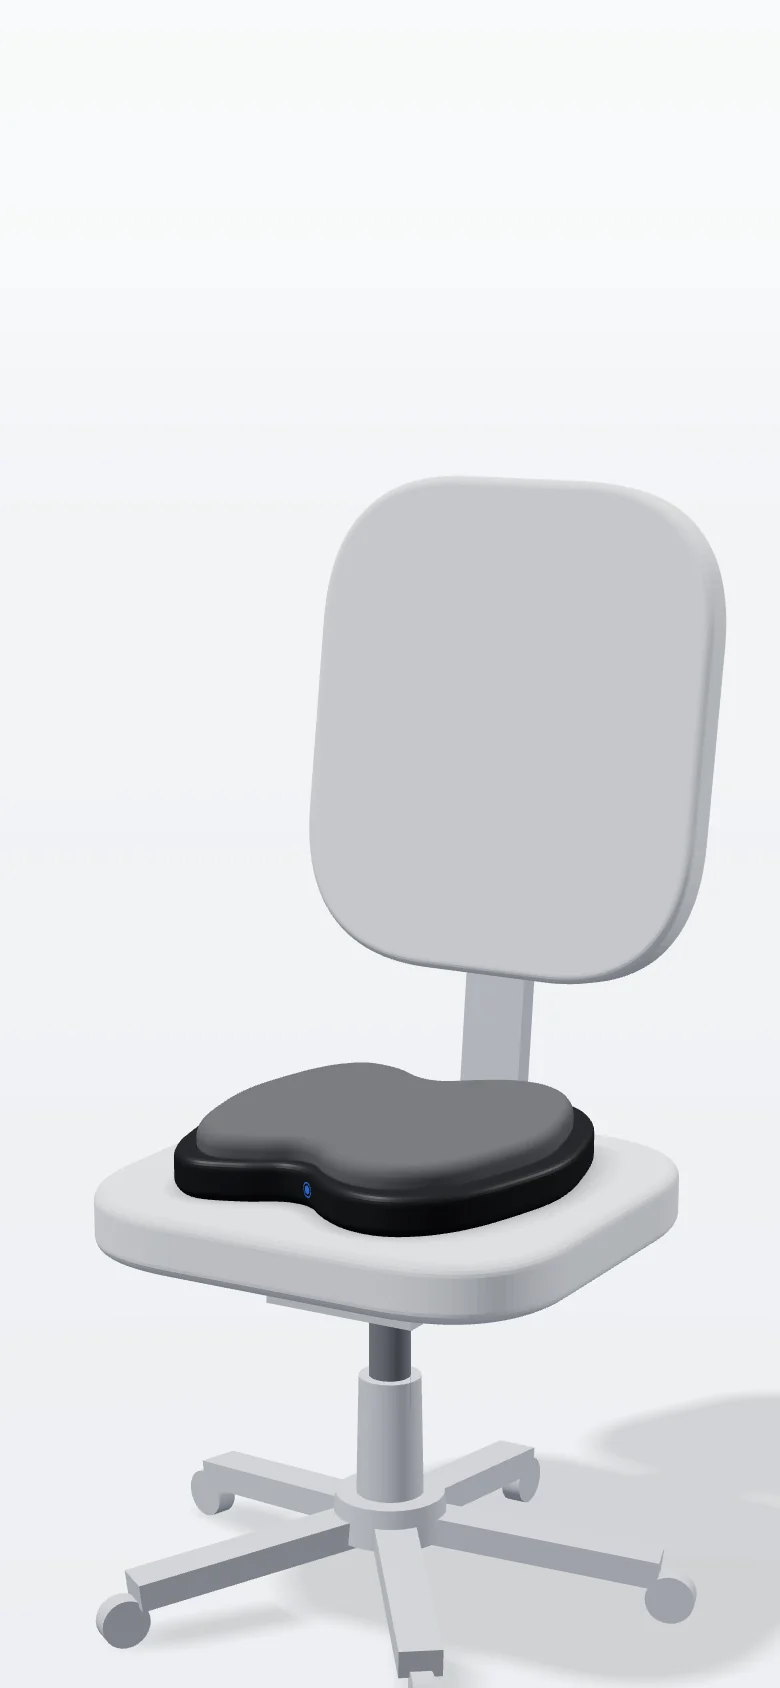
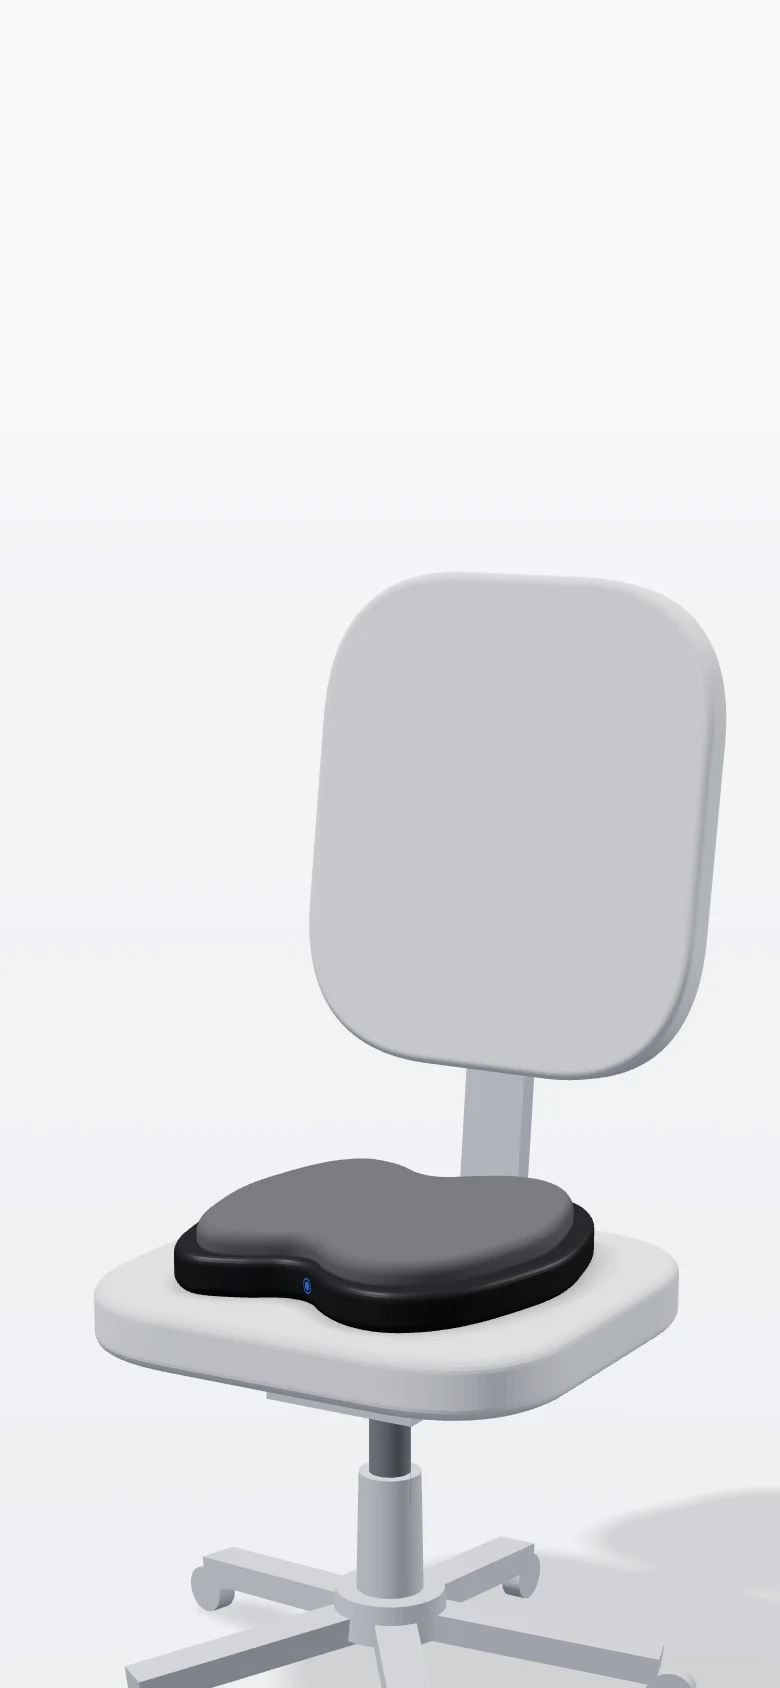
Statement in the hero, one item per section, slower scroll reveals, film restored

Changed region(s): [[0.1231, 0.2773, 1.0, 1.0]]

diff --git a/index.html b/index.html
@@ -167,24 +167,49 @@
                     <span class="pe-title-line pe-title-light">앉는 순간,</span>
                     <span class="pe-title-line pe-title-bold">자세가 깨어납니다.</span>
                 </h1>
+                <p class="pe-lede hero-statement"><span class="hs-line">대부분의 방석은 받쳐 줄 뿐입니다.</span> <span class="hs-line hs-strong">HURRY UP은 자세를 알려 줍니다.</span></p>
             </div>
 
             <div class="cine-hud">
-                <a href="#about" class="cine-skip" data-skip-intro>인트로 건너뛰기 <svg class="icon" aria-hidden="true"><use href="#i-arrow-down"/></svg></a>
+                <a href="#film" class="cine-skip" data-skip-intro>인트로 건너뛰기 <svg class="icon" aria-hidden="true"><use href="#i-arrow-down"/></svg></a>
             </div>
         </div>
     </section>
 
-    <!-- ============ 02. 스테이트먼트 + 핵심 특징 ============ -->
-    <section class="about" id="about" tabindex="-1">
-        <div class="container">
-            <h2 class="sr-only">HURRY UP이 하는 일</h2>
-            <!-- 굵기 대비 두 줄 (가는 1행 · 굵은 2행). 단어별 밝아짐은 script.js splitStatementWords가 줄마다 나눔 -->
-            <p class="statement" data-split-words>
-                <span class="st-line st-l">대부분의 방석은 받쳐 줄 뿐입니다.</span>
-                <span class="st-line st-b">HURRY UP은 자세를 알려 줍니다.</span>
-            </p>
 
+    <!-- ============ 02-B. 브랜드 필름 (15초 쇼릴) ============ -->
+    <section class="film" id="film" aria-labelledby="filmTitle" tabindex="-1">
+        <div class="container">
+            <div class="section-header" data-reveal>
+                <span class="eyebrow">Brand Film</span>
+                <h2 id="filmTitle">15초로 보는 HURRY UP.</h2>
+            </div>
+            <div class="film-frame" id="filmFrame" data-reveal>
+                <!-- JS 없이도 재생 가능: 기본 컨트롤 + 720p 소스. JS가 있으면 화면 크기에 맞는 소스·자동 재생으로 교체 -->
+                <video id="filmVideo" class="film-video" controls muted loop playsinline preload="none" poster="media/showreel-poster.jpg" width="1920" height="1080" aria-label="HURRY UP 브랜드 쇼릴, 15초">
+                    <source src="media/hurryup-showreel-720.mp4" type="video/mp4">
+                    <source src="media/hurryup-showreel-720.webm" type="video/webm">
+                </video>
+                <button type="button" class="film-start" id="filmStart" hidden aria-label="쇼릴 재생">
+                    <span><svg class="icon"><use href="#i-play"/></svg></span>
+                </button>
+                <div class="film-controls" id="filmControls" hidden>
+                    <button type="button" class="film-btn" id="filmPlay" aria-label="일시정지">
+                        <svg class="icon icon-pause"><use href="#i-pause"/></svg><svg class="icon icon-play"><use href="#i-play"/></svg>
+                    </button>
+                    <button type="button" class="film-btn wide" id="filmSound" aria-label="소리 켜기">
+                        <svg class="icon icon-muted"><use href="#i-volume-x"/></svg><svg class="icon icon-sound"><use href="#i-volume-2"/></svg><span>소리 켜기</span>
+                    </button>
+                    <div class="film-progress" aria-hidden="true"><i id="filmBar"></i></div>
+                    <button type="button" class="film-btn" id="filmFull" aria-label="전체 화면">
+                        <svg class="icon"><use href="#i-maximize"/></svg>
+                    </button>
+                </div>
+            </div>
+            <div class="film-meta" data-reveal>
+                <span>2.5D 모션 그래픽 · 시제품 렌더 기반 · 콘셉트 시각화와 예시 데이터 포함</span>
+                <a href="media/hurryup-showreel.mp4" download class="film-dl"><svg class="icon"><use href="#i-download"/></svg> MP4 다운로드 (1080p, 사운드)</a>
+            </div>
         </div>
     </section>
 
@@ -220,7 +245,7 @@
     <section class="technology" id="technology">
         <div class="container">
             <div class="section-header pe-head" data-reveal>
-                <h2><span class="l">감지하고, 판단하고,</span> <span class="b">알려 줍니다.</span></h2>
+                <h2><span class="l">바르게 앉으면 조용히,</span> <span class="b">기울면 짧게.</span></h2>
             </div>
 
             <div class="story">
@@ -463,7 +488,7 @@
                     <p class="proto-note" id="protoPriceNote">가격과 출시 일정은 아직 정해지지 않았습니다.</p>
                     <div class="proto-cta">
                         <a href="#contact" class="btn btn-pill btn-accent" data-inquiry="trial">시제품 체험 신청 <svg class="icon"><use href="#i-arrow-right"/></svg></a>
-                        <a href="#contact" class="btn btn-pill btn-outline" data-inquiry="partner">협력 문의</a>
+                        <a href="#contact" class="btn btn-pill btn-outline">협력 문의</a>
                     </div>
                 </div>
             </div>
@@ -484,60 +509,6 @@
                     </button>
                     <figcaption><span class="media-tag">3D 렌더</span>전체 뷰</figcaption>
                 </figure>
-                <figure class="g-item" data-reveal>
-                    <button type="button" class="g-media" data-lightbox="images/gallery/detail-power.webp" data-caption="전원 버튼과 측면 곡선 — 렌더 크롭" aria-label="전원 버튼 디테일 크게 보기">
-                        <img src="images/gallery/detail-power.webp" alt="전원 버튼과 측면 곡선 디테일" width="600" height="340" loading="lazy" decoding="async">
-                    </button>
-                    <figcaption><span class="media-tag">렌더 크롭</span>전원 버튼 · 측면</figcaption>
-                </figure>
-                <figure class="g-item" data-reveal>
-                    <button type="button" class="g-media" data-lightbox="images/gallery/detail-edge.webp" data-caption="테두리 곡면 — 렌더 크롭" aria-label="테두리 곡면 크게 보기">
-                        <img src="images/gallery/detail-edge.webp" alt="방석 테두리 곡면 디테일" width="700" height="770" loading="lazy" decoding="async">
-                    </button>
-                    <figcaption><span class="media-tag">렌더 크롭</span>테두리 곡면</figcaption>
-                </figure>
-                <figure class="g-item" data-reveal>
-                    <div class="g-media g-diagram" id="gallerySensorDiagram">
-                        <svg viewBox="0 0 460 380" aria-hidden="true"><use href="#cushionShape"/></svg>
-                    </div>
-                    <figcaption><span class="media-tag">다이어그램</span>센서 배열 (콘셉트)</figcaption>
-                </figure>
-                <!--
-                  ▼ 실사 슬롯 3개 (data-gallery-slot). HTML은 수정하지 마세요.
-                    사진이 준비되면: python tools/prep_photo.py <slot> <원본 사진>
-                    → 출력된 설정을 site-config.js → gallery.<slot> 에 붙여 넣으면
-                      자리 표시가 반응형 이미지(srcset · lazy · alt)로 자동 교체됩니다.
-                -->
-                <figure class="g-item" data-reveal data-gallery-slot="material">
-                    <div class="g-media g-placeholder ratio-4x3" role="img" aria-label="쿠션 소재 클로즈업 사진 자리, 실제 사진 준비 중">
-                        <span class="ph-frame" aria-hidden="true"></span>
-                        <svg class="icon" aria-hidden="true"><use href="#i-layers"/></svg>
-                        <strong>쿠션 소재 클로즈업</strong>
-                        <span>실제 시제품 사진 준비 중</span>
-                        <small>권장 4:3 · 1600×1200px 이상 · 매크로</small>
-                    </div>
-                    <figcaption><span class="media-tag muted">사진 준비 중</span>쿠션 소재</figcaption>
-                </figure>
-                <figure class="g-item" data-reveal data-gallery-slot="pcb">
-                    <div class="g-media g-placeholder ratio-4x3" role="img" aria-label="내부 PCB와 진동 모터 사진 자리, 실제 사진 준비 중">
-                        <span class="ph-frame" aria-hidden="true"></span>
-                        <svg class="icon" aria-hidden="true"><use href="#i-cpu"/></svg>
-                        <strong>내부 PCB · 진동 모터</strong>
-                        <span>실제 부품 사진 준비 중</span>
-                        <small>권장 4:3 · 1600×1200px 이상 · 탑뷰</small>
-                    </div>
-                    <figcaption><span class="media-tag muted">사진 준비 중</span>PCB · 진동 모터</figcaption>
-                </figure>
-                <figure class="g-item g-full" data-reveal data-gallery-slot="side">
-                    <div class="g-media g-placeholder ratio-3x1" role="img" aria-label="측면 프로필 사진 자리, 실제 사진 준비 중">
-                        <span class="ph-frame" aria-hidden="true"></span>
-                        <svg class="icon" aria-hidden="true"><use href="#i-image"/></svg>
-                        <strong>측면 프로필</strong>
-                        <span>실제 시제품 사진 준비 중 · 두께와 곡면 실루엣</span>
-                        <small>권장 3:1 · 2400×800px 이상 · 정측면, 무광 배경</small>
-                    </div>
-                    <figcaption><span class="media-tag muted">사진 준비 중</span>측면 프로필</figcaption>
-                </figure>
             </div>
         </div>
     </section>
@@ -551,12 +522,6 @@
             </div>
             <ol class="timeline" data-reveal>
                 <li class="tl-item done"><span class="tl-dot"></span><span class="tl-num">01</span><strong>제품 콘셉트</strong><span class="status-chip done"><i></i> 완료</span></li>
-                <li class="tl-item progress" aria-current="step"><span class="tl-dot"></span><span class="tl-num">02</span><strong>하드웨어 프로토타입</strong><span class="status-chip progress"><i></i> 진행 중</span></li>
-                <li class="tl-item pending"><span class="tl-dot"></span><span class="tl-num">03</span><strong>센서 검증</strong><span class="status-chip pending"><i></i> 확인 대기</span></li>
-                <li class="tl-item pending"><span class="tl-dot"></span><span class="tl-num">04</span><strong>사용자 테스트</strong><span class="status-chip pending"><i></i> 확인 대기</span></li>
-                <li class="tl-item unverified"><span class="tl-dot"></span><span class="tl-num">05</span><strong>인증 준비</strong><span class="status-chip unverified"><i></i> 미검증</span></li>
-                <li class="tl-item unverified"><span class="tl-dot"></span><span class="tl-num">06</span><strong>양산 준비</strong><span class="status-chip unverified"><i></i> 미검증</span></li>
-                <li class="tl-item todo"><span class="tl-dot"></span><span class="tl-num">07</span><strong>출시</strong><span class="status-chip todo"><i></i> 시작 전</span></li>
             </ol>
             <p class="roadmap-note">단계별 상태는 잠정이며, 확인되는 대로 업데이트합니다.</p>
         </div>
@@ -611,17 +576,12 @@
                 <h2><span class="l">시제품 체험과 협력,</span><br><span class="b">함께 만들어 갈 분을 찾습니다.</span></h2>
                 <ul class="contact-types">
                     <li>시제품 체험 신청</li>
-                    <li>사업 · 연구 협력</li>
-                    <li>투자 및 기타 문의</li>
                 </ul>
             </div>
             <form class="contact-form" id="contactForm" novalidate data-reveal>
                 <div class="field field-select">
                     <select id="cfType" name="type" required>
                         <option value="trial">시제품 체험 신청</option>
-                        <option value="partner">사업 · 연구 협력</option>
-                        <option value="invest">투자</option>
-                        <option value="etc">기타</option>
                     </select>
                     <label for="cfType">문의 유형</label>
                 </div>

diff --git a/style.css b/style.css
@@ -1901,3 +1901,28 @@ main > section { overflow-x: clip; }
 .section-header.pe-head { margin-bottom: clamp(28px, 3.4vw, 48px); }
 @media (min-width: 1024px) { .story-step { min-height: 30vh; padding: 28px 0; } }
 @media (max-width: 1023px) { .story-step { padding: 28px 0; } }
+
+/* =========================================================
+   2026-11 정리 3차: 첫 화면 문장 · 섹션마다 첫 항목만 · 스크롤 변화 늦춤
+   ========================================================= */
+/* 첫 화면: 제목 아래 두 문장 (이전 #about 문장). 1행은 설명 회색, 2행은 잉크로 조금 더 단단하게 */
+.cine .hero-statement { margin: 0; }
+.cine .hero-statement .hs-line { display: block; }
+.cine .hero-statement .hs-strong { color: var(--pe-text); font-weight: 500; }
+
+/* 하드웨어: 맨 위 레이어 한 장 */
+#hardware .hw-specs { grid-template-columns: minmax(0, 1fr); max-width: 560px; }
+
+/* 로드맵: 첫 단계 한 줄 (7칸 트랙과 진행선은 한 항목에는 의미 없음) */
+#roadmap .timeline { grid-template-columns: minmax(0, 1fr); padding: 0; justify-items: center; }
+#roadmap .timeline::before, #roadmap .timeline::after { content: none; }
+#roadmap .tl-item { flex-direction: row; align-items: center; gap: 12px; text-align: left; padding: 0; }
+#roadmap .tl-dot { position: relative; top: auto; flex: none; }
+#roadmap .tl-item strong { min-height: 0; }
+
+/* 갤러리: 전체 뷰 한 장을 가득 */
+#gallery .gallery-grid { grid-template-columns: minmax(0, 1fr); }
+#gallery .g-wide { grid-column: 1 / -1; grid-row: auto; }
+
+/* 스크롤로 나타나는 요소: 조금 더 올라온 뒤(script.js -22%), 조금 더 천천히 */
+.js [data-reveal] { transition: opacity 0.8s var(--ease), transform 1.2s var(--ease); }
